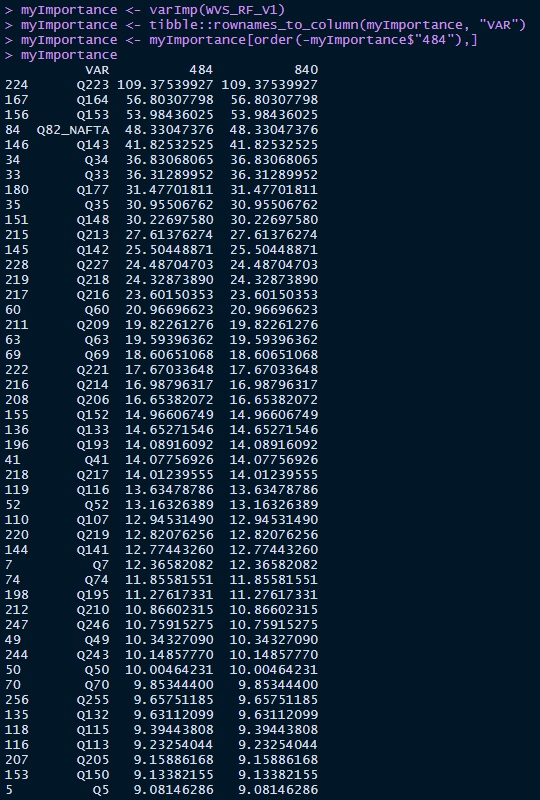
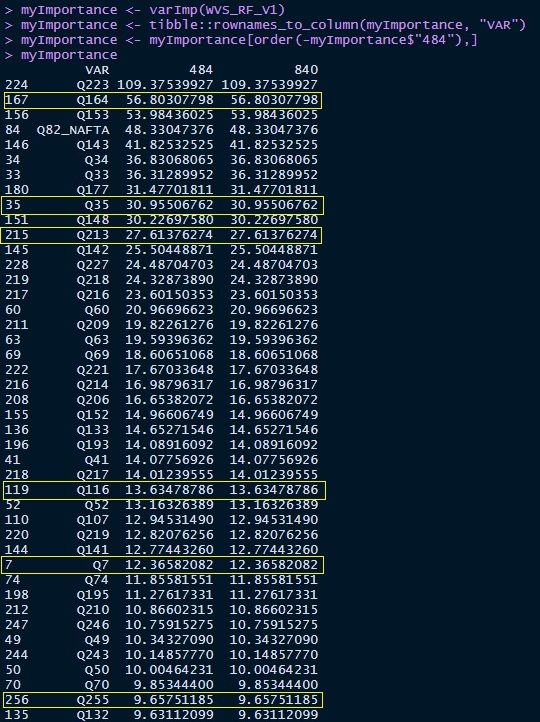
countryOrigin.html updates

Changed region(s): [[0.0, 0.0, 0.9778, 1.0]]

diff --git a/countryOrigin.html b/countryOrigin.html
@@ -17,173 +17,185 @@
 			<div id="wrapper">
 
 				<!-- Main -->
-					<div id="main">
-						<div class="inner">
+				<div id="main">
+					<div class="inner">
 
-							<!-- Header -->
-							<header id="header">
-								<a href="index.html" class="logo"><strong>Home</strong></a>
-								<ul class="icons">
-									<li><a href="https://github.com/rlgood" class="icon brands fa fa-github"><span class="label">GitHub</span></a></li>
-									<li><a href="https://www.linkedin.com/in/robertlouisgood/" class="icon brands fa fa-linkedin"><span class="label">LinkedIn</span></a></li>
-								</ul>
+						<!-- Header -->
+						<header id="header">
+							<a href="index.html" class="logo"><strong>Home</strong></a>
+							<ul class="icons">
+								<li><a href="https://github.com/rlgood" class="icon brands fa fa-github"><span class="label">GitHub</span></a></li>
+								<li><a href="https://www.linkedin.com/in/robertlouisgood/" class="icon brands fa fa-linkedin"><span class="label">LinkedIn</span></a></li>
+							</ul>
 
-							</header>
+						</header>
 
-							<!-- Content -->
-							<section>
-								<header class="main">
-									<h1>Predicting Country of Origin</h1>
-								</header>
+						<!-- Content -->
+                        <section>
+                            <header class="main">
+                                <h1>Predicting Country of Origin</h1>
+                            </header>
 
-								<p>
-									This project was an assignment for my machine learning class. We investigated data from the World Value Survey Version 7,
-									the survey includes participants from over 300 countries with over 250 questions ranging from religion to life satisfaction. 
-									Our project was to create a model to predict country of origin from responses of citizens from the USA and Mexico. We were tasked with creating the
-									project in RStudio and KNIME.
-								</p>
+                            <p>
+                                This project was an assignment for my machine learning class. We investigated data from the World Value Survey Version 7,
+                                the survey includes participants from over 300 countries with over 250 questions ranging from religion to life satisfaction.
+                                Our project was to create a model to predict country of origin from responses of citizens from the USA and Mexico. We were tasked with creating the
+                                project in RStudio and KNIME.
+                            </p>
 
-								<hr class="major" />
+                            <hr class="major" />
+                            <div class="major" />
 
-								<h2>Dependent and Independent Variables</h2>
-								<p>
-									B_COUNTRY is a nominal variable that specifies the respondent country of origin code.
-									The code for Mexico is ‘484’ and for USA is ‘840’. These two countries will be acting as my dependent variables.
-									The following survey questions were used as my independent variables:
+                            <h2>Random Forest to Determine Variable Importance</h2>
 
-									<br /> - Q7 references encouraging children to learn good manners at home as being especially important.
-									<br /> - Q35 references the respondent’s agreement with the statement “if a woman earns more
-									money than her husband, it’s almost certain to cause problems.”
-									<br /> - Q116 references belief that civil service providers (police, judiciary, civil servants, doctors,
-									teachers) are involved in corruption.
-									<br /> - Q143 references the degree of worry the respondent has in not being able to give their children a good education.
-									<br /> - Q164 references the importance of God in the respondent’s life.
-									<br /> - Q213 references participating in political action and social activism by donating to a group or campaign.
-									<br /> - Q255 references how close the respondent feels to their village, town, or city.
-								</p>
+                            <p>
+                                Our first step is to narrow down the variables.
+                                We want to use variables that are representative of beliefs, needs, values,
+                                and attitudes to determine if the respondent resides in Mexico or US.
+                                However, we need to be careful, as some variables are too specific.
 
-								<div class="posts">
-									<article>
-										<span class="image"><img src="images/histQ7Mexico.jpg" alt="" /></span>
-										<p>
-											The distribution of responses in Mexico for Q7(child manners) where 1 is "Mentioned" and 2 is "Not mentioned"
-											<br />With the importance of family and being a good host in Mexican culture this distribution makes sense.
-										</p>
-									</article>
-									<article>
-										<span class="image"><img src="images/histQ7USA.jpg" alt="" /></span>
-										<p>
-											The distribution of responses in USA for Q7(child manners) where 1 is "Mentioned" and 2 is "Not mentioned"
-										</p>
-									</article>
-									<article>
-										<span class="image"><img src="images/histQ35Mexico.jpg" alt="" /></span>
-										<p>
-											The distribution of responsed in Mexico for Q35(high earning wife) where 1 is "Agree strongly" and 5 is
-											"Disagree strongly"
-											<br />With strong traditional gender roles in Mexican families this distribution makes sense.
-										</p>
-									</article>
-									<article>
-										<span class="image"><img src="images/histQ35USA.jpg" alt="" /></span>
-										<p>
-											The distribution of responsed in USA for Q35(high earning wife) where 1 is "Agree strongly" and 5 is
-											"Disagree strongly"
-											<br />With weaker traditional gender roles in US families this distribution makes sense. Its interesting
-											that none of the respondents agreed or disagreed strongly.
-										</p>
-									</article>
-									<article>
-										<span class="image"><img src="images/histQ116Mexico.jpg" alt="" /></span>
-										<p>
-											The distribution of responsed in Mexico for Q116(civil service providers are corrupt) where 1 is
-											"None of them" and 4 is "All of them"
-											<br />With the distrust in government overall in Mexico this distribution makes sense.
-										</p>
-									</article>
-									<article>
-										<span class="image"><img src="images/histQ116USA.jpg" alt="" /></span>
-										<p>
-											The distribution of responsed in USA for Q116(civil service providers are corrupt) where 1 is
-											"None of them" and 4 is "All of them"
-											<br />With US citizens having high trust in goverment overall this distribution makes sense.
-										</p>
-									</article>
-									<article>
-										<span class="image"><img src="images/histQ143Mexico.jpg" alt="" /></span>
-										<p>
-											The distribution of responsed in Mexico for Q143(worry about children's education) where 1 is "Very much" and
-											4 is "Not at all"
-										</p>
-									</article>
-									<article>
-										<span class="image"><img src="images/histQ143USA.jpg" alt="" /></span>
-										<p>
-											The distribution of responsed in USA for Q143(worry about children's education) where 1 is "Very much" and
-											4 is "Not at all"
-										</p>
-									</article>
-									<article>
-										<span class="image"><img src="images/histQ164Mexico.jpg" alt="" /></span>
-										<p>
-											The distribution of responsed in Mexico for Q164(importance of god) where 1 is "Not at all important" and 10 is "Very important"
-										</p>
-									</article>
-									<article>
-										<span class="image"><img src="images/histQ164USA.jpg" alt="" /></span>
-										<p>
-											The distribution of responsed in USA for Q164(importance of god) where 1 is "Not at all important" and 10 is "Very important"
-										</p>
-									</article>
-									<article>
-										<span class="image"><img src="images/histQ213Mexico.jpg" alt="" /></span>
-										<p>
-											The distribution of responsed in Mexico for Q213(action/activism through donating) where 1 is "Have done", 2 is "Might do",
-											and 3 is "Would never do"
-										</p>
-									</article>
-									<article>
-										<span class="image"><img src="images/histQ213USA.jpg" alt="" /></span>
-										<p>
-											The distribution of responsed in USA for Q213(action/activism through donating) where 1 is "Have done", 2 is "Might do",
-											and 3 is "Would never do"
-										</p>
-									</article>
-									<article>
-										<span class="image"><img src="images/histQ255Mexico.jpg" alt="" /></span>
-										<p>
-											The distribution of responsed in Mexico for Q255(closeness to village/town/city) where 1 is "Very close" and 4 is "Not close at all"
-										</p>
-									</article>
-									<article>
-										<span class="image"><img src="images/histQ255USA.jpg" alt="" /></span>
-										<p>
-											The distribution of responsed in USA for Q255(closeness to village/town/city) where 1 is "Very close" and 4 is "Not close at all"
-										</p>
-									</article>
-								</div>
-								<div class="major" />
-								<h2>Random Forest to Determine Variable Importance</h2>
+                                i.e. Q223 asks the respondent to list country-specific political parties.
+                                <div></div>
+                                To narrow the variables down to a manageable level I used the randomForest
+                                package in R to run 2,000 decision trees ranking variable importance in a descending order.
+                            </p>
+                            <span class="image object"><img src="images/randomForest.jpg" alt="" /></span>
+                            <br />
+                            <p>
+                                <br />By limiting my search to variables with an importance greater than 9.5 the variable were more manageable.
+                                I spent some time referencing the survey and cultural atlases for Mexico and US to pick my final variable,
+                                highlighted in yellow below:
+                            </p>
+                            <span class="image object"><img src="images/variableImportance.jpg" alt="" /></span>
 
-								<span class="image main"><img src="images/randomForest.jpg" alt="" /></span>
-								<span class="image main"><img src="images/variableImportance.jpg" alt="" /></span>
-								<p>
-									B_COUNTRY is a nominal variable that specifies the respondent country of origin code.
-									The code for Mexico is ‘484’ and for USA is ‘840’. These two countries will be acting as my dependent variables.
-									The following survey questions were used as my independent variables:
+                            <hr class="major" />
+                            <div class="major" />
+                            <h2>Dependent and Independent Variables</h2>
+                            <p>
 
-									<br /> - Q7 references encouraging children to learn good manners at home as being especially important.
-									<br /> - Q35 references the respondent’s agreement with the statement “if a woman earns more
-									money than her husband, it’s almost certain to cause problems.”
-									<br /> - Q116 references belief that civil service providers (police, judiciary, civil servants, doctors,
-									teachers) are involved in corruption.
-									<br /> - Q143 references the degree of worry the respondent has in not being able to give their children a good education.
-									<br /> - Q164 references the importance of God in the respondent’s life.
-									<br /> - Q213 references participating in political action and social activism by donating to a group or campaign.
-									<br /> - Q255 references how close the respondent feels to their village, town, or city.
-								</p>
+                                B_COUNTRY is a nominal variable that specifies the respondent country of origin code.
+                                The code for Mexico is ‘484’ and for USA is ‘840’. These two countries will be acting as my dependent variables.
+                                The following survey questions were used as my independent variables:
+
+                                <br /> - Q7 references encouraging children to learn good manners at home as being especially important.
+                                <br /> - Q35 references the respondent’s agreement with the statement “if a woman earns more
+                                money than her husband, it’s almost certain to cause problems.”
+                                <br /> - Q116 references belief that civil service providers (police, judiciary, civil servants, doctors,
+                                teachers) are involved in corruption.
+                                <br /> - Q143 references the degree of worry the respondent has in not being able to give their children a good education.
+                                <br /> - Q164 references the importance of God in the respondent’s life.
+                                <br /> - Q213 references participating in political action and social activism by donating to a group or campaign.
+                                <br /> - Q255 references how close the respondent feels to their village, town, or city.
+                            </p>
+
+                            <div class="posts">
+                                <article>
+                                    <span class="image"><img src="images/histQ7Mexico.jpg" alt="" /></span>
+                                    <p>
+                                        The distribution of responses in Mexico for Q7(child manners) where 1 is "Mentioned" and 2 is "Not mentioned"
+                                        <br />With the importance of family and being a good host in Mexican culture this distribution makes sense.
+                                    </p>
+                                </article>
+                                <article>
+                                    <span class="image"><img src="images/histQ7USA.jpg" alt="" /></span>
+                                    <p>
+                                        The distribution of responses in USA for Q7(child manners) where 1 is "Mentioned" and 2 is "Not mentioned"
+                                    </p>
+                                </article>
+
+                                <article>
+                                    <span class="image"><img src="images/histQ35Mexico.jpg" alt="" /></span>
+                                    <p>
+                                        The distribution of responsed in Mexico for Q35(high earning wife) where 1 is "Agree strongly" and 5 is
+                                        "Disagree strongly"
+                                        <br />With strong traditional gender roles in Mexican families this distribution makes sense.
+                                    </p>
+                                </article>
+                                <article>
+                                    <span class="image"><img src="images/histQ35USA.jpg" alt="" /></span>
+                                    <p>
+                                        The distribution of responsed in USA for Q35(high earning wife) where 1 is "Agree strongly" and 5 is
+                                        "Disagree strongly"
+                                        <br />With weaker traditional gender roles in US families this distribution makes sense. Its interesting
+                                        that none of the respondents agreed or disagreed strongly.
+                                    </p>
+                                </article>
+                                <article>
+                                    <span class="image"><img src="images/histQ116Mexico.jpg" alt="" /></span>
+                                    <p>
+                                        The distribution of responsed in Mexico for Q116(civil service providers are corrupt) where 1 is
+                                        "None of them" and 4 is "All of them"
+                                        <br />With the distrust in government overall in Mexico this distribution makes sense.
+                                    </p>
+                                </article>
+                                <article>
+                                    <span class="image"><img src="images/histQ116USA.jpg" alt="" /></span>
+                                    <p>
+                                        The distribution of responsed in USA for Q116(civil service providers are corrupt) where 1 is
+                                        "None of them" and 4 is "All of them"
+                                        <br />With US citizens having high trust in goverment overall this distribution makes sense.
+                                    </p>
+                                </article>
+                                <article>
+                                    <span class="image"><img src="images/histQ143Mexico.jpg" alt="" /></span>
+                                    <p>
+                                        The distribution of responsed in Mexico for Q143(worry about children's education) where 1 is "Very much" and
+                                        4 is "Not at all"
+                                    </p>
+                                </article>
+                                <article>
+                                    <span class="image"><img src="images/histQ143USA.jpg" alt="" /></span>
+                                    <p>
+                                        The distribution of responsed in USA for Q143(worry about children's education) where 1 is "Very much" and
+                                        4 is "Not at all"
+                                    </p>
+                                </article>
+                                <article>
+                                    <span class="image"><img src="images/histQ164Mexico.jpg" alt="" /></span>
+                                    <p>
+                                        The distribution of responsed in Mexico for Q164(importance of god) where 1 is "Not at all important" and 10 is "Very important"
+                                    </p>
+                                </article>
+                                <article>
+                                    <span class="image"><img src="images/histQ164USA.jpg" alt="" /></span>
+                                    <p>
+                                        The distribution of responsed in USA for Q164(importance of god) where 1 is "Not at all important" and 10 is "Very important"
+                                    </p>
+                                </article>
+                                <article>
+                                    <span class="image"><img src="images/histQ213Mexico.jpg" alt="" /></span>
+                                    <p>
+                                        The distribution of responsed in Mexico for Q213(action/activism through donating) where 1 is "Have done", 2 is "Might do",
+                                        and 3 is "Would never do"
+                                    </p>
+                                </article>
+                                <article>
+                                    <span class="image"><img src="images/histQ213USA.jpg" alt="" /></span>
+                                    <p>
+                                        The distribution of responsed in USA for Q213(action/activism through donating) where 1 is "Have done", 2 is "Might do",
+                                        and 3 is "Would never do"
+                                    </p>
+                                </article>
+                                <article>
+                                    <span class="image"><img src="images/histQ255Mexico.jpg" alt="" /></span>
+                                    <p>
+                                        The distribution of responsed in Mexico for Q255(closeness to village/town/city) where 1 is "Very close" and 4 is "Not close at all"
+                                    </p>
+                                </article>
+                                <article>
+                                    <span class="image"><img src="images/histQ255USA.jpg" alt="" /></span>
+                                    <p>
+                                        The distribution of responsed in USA for Q255(closeness to village/town/city) where 1 is "Very close" and 4 is "Not close at all"
+                                    </p>
+                                </article>
+                            </div>
+
+
+                            <p>
+                                
+                            </p>
 </div>
-</section>
+                        </section>
 
 						</div>
 					</div>
